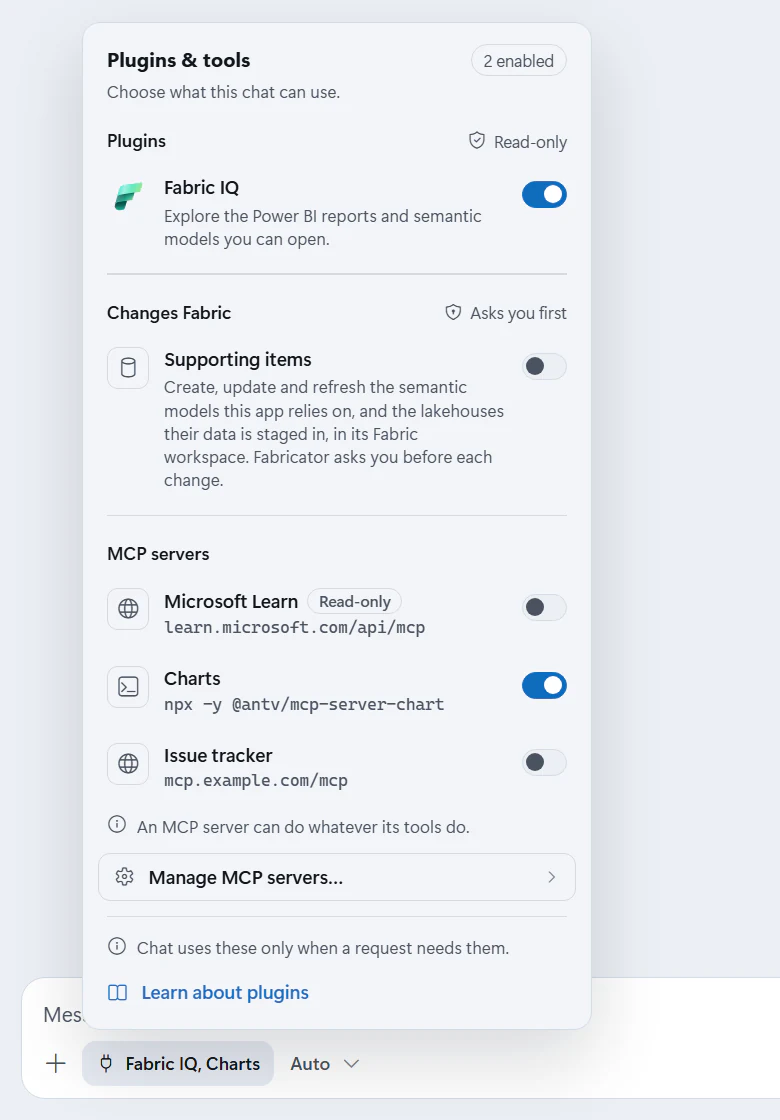
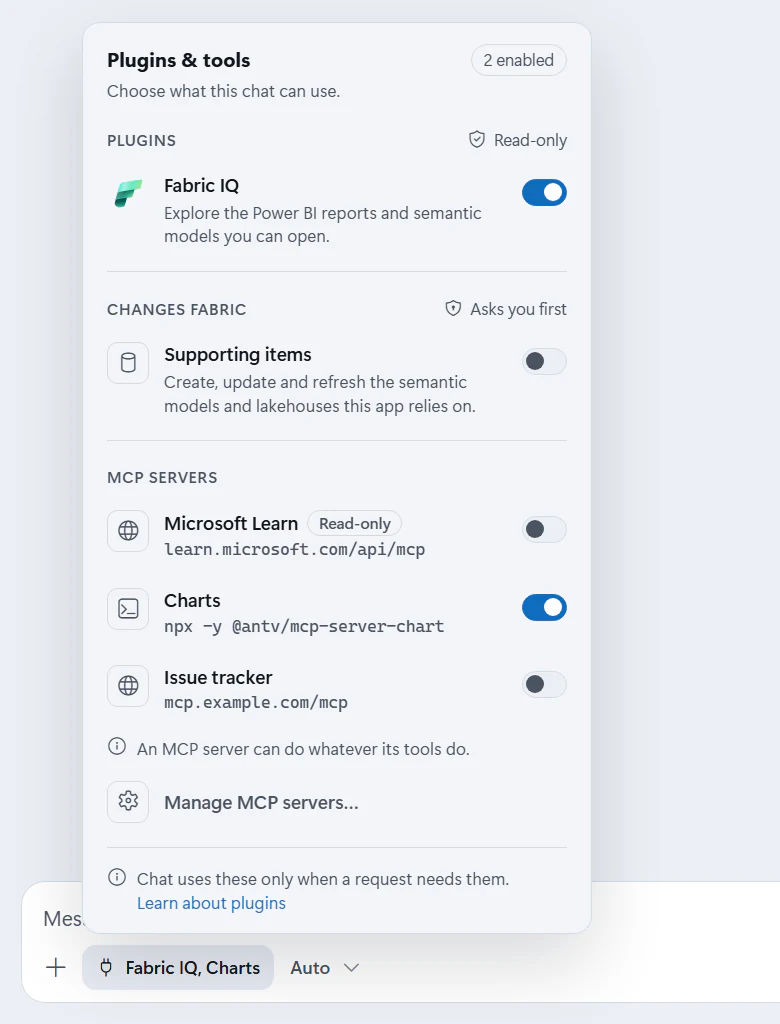
Tidy the chat's Plugins & tools panel
The panel's section headings are now small and dim, like the model
picker's, so the plugins' names lead. Supporting items' description is
two lines instead of five: it no longer says "Fabricator asks you
before each change", which its section's Asks you first already says.

Add an MCP server... and Manage MCP servers... are rows of the list,
lined up with the others, with a dashed + slot for adding the first
server, instead of a framed button wider than the rest. Learn about
plugins follows the note at the foot of the panel rather than taking a
row of its own.

The labels are unchanged. The plugins and mcp-plugins screenshots are
captured again, cropped for the shorter panel.

Copilot-Session: ccdcdfe1-410a-49bd-8093-f023c893ffa9

diff --git a/src/renderer/src/components/chat/ComposerMenus.tsx b/src/renderer/src/components/chat/ComposerMenus.tsx
@@ -525,17 +525,21 @@ export function PluginsMenu({
                     <button
                       type="button"
                       role="menuitem"
-                      className="mp-item pl-manage"
+                      className="mp-item pl-item pl-manage"
                       onClick={() => {
                         closeMenu(false)
                         onManageServers(servers.length === 0)
                       }}
                     >
-                      <Codicon name={servers.length ? 'settings-gear' : 'add'} />
+                      <span
+                        className={`pl-logo pl-logo--tile${servers.length ? '' : ' pl-logo--add'}`}
+                        aria-hidden="true"
+                      >
+                        <Codicon name={servers.length ? 'settings-gear' : 'add'} />
+                      </span>
                       <span className="mp-item-label">
                         {servers.length ? t('pluginsMenu.manage') : t('pluginsMenu.addServer')}
                       </span>
-                      <Codicon name="chevron-right" className="pl-manage-caret" />
                     </button>
                   )}
                 </>
@@ -544,22 +548,26 @@ export function PluginsMenu({
               <div className="mp-sep" role="separator" />
               <p className="pl-note">
                 <Codicon name="info" />
-                {t('pluginsMenu.note')}
+                <span>
+                  {t('pluginsMenu.note')}
+                  {onLearnMore && (
+                    <>
+                      {' '}
+                      <button
+                        type="button"
+                        role="menuitem"
+                        className="pl-learn"
+                        onClick={() => {
+                          closeMenu(false)
+                          onLearnMore()
+                        }}
+                      >
+                        {t('pluginsMenu.learn')}
+                      </button>
+                    </>
+                  )}
+                </span>
               </p>
-              {onLearnMore && (
-                <button
-                  type="button"
-                  role="menuitem"
-                  className="mp-item pl-learn"
-                  onClick={() => {
-                    closeMenu(false)
-                    onLearnMore()
-                  }}
-                >
-                  <Codicon name="book" />
-                  <span className="mp-item-label">{t('pluginsMenu.learn')}</span>
-                </button>
-              )}
             </div>
           </div>,
           document.body

diff --git a/src/renderer/src/components/chat/chat.css b/src/renderer/src/components/chat/chat.css
@@ -2866,13 +2866,16 @@ button.thinking-head:hover {
   padding: 8px 10px 4px;
 }
 
+/* Quieter than the plugins' names, like the model picker's headings. */
 .pl-section-title {
   display: inline-flex;
   align-items: center;
   gap: 6px;
-  color: var(--text);
-  font-size: 12px;
+  color: var(--text-dim);
+  font-size: 10.5px;
   font-weight: 600;
+  letter-spacing: 0.05em;
+  text-transform: uppercase;
 }
 
 .pl-section-note {
@@ -2933,6 +2936,11 @@ button.thinking-head:hover {
   font-size: 15px;
 }
 
+/* Adding the first MCP server: an empty slot in the list. */
+.pl-logo--add {
+  border-style: dashed;
+}
+
 .pl-badge {
   padding: 0 7px;
   color: var(--text-dim);
@@ -2968,35 +2976,40 @@ button.thinking-head:hover {
   font-size: 13px;
 }
 
-/* Manage MCP servers: a row of its own, framed like a button. */
-.mp-item.pl-manage {
-  width: auto;
-  margin: 4px 4px 2px;
-  border: 1px solid var(--pl-line);
-}
-
-.pl-manage .mp-item-label {
-  flex: 1;
-}
-
-.pl-manage .codicon[class*='codicon-'] {
+/* Add or manage MCP servers: a row of the list, quieter than the switches. */
+.pl-item.pl-manage {
+  align-items: center;
   color: var(--text-dim);
-  font-size: 14px;
 }
 
-.pl-manage .codicon[class*='codicon-'].pl-manage-caret {
-  color: var(--text-faint);
-  font-size: 12px;
+.pl-item.pl-manage:hover:not(:disabled),
+.pl-item.pl-manage:focus-visible {
+  color: var(--text);
 }
 
-.mp-item.pl-learn,
-.mp-item.pl-learn:hover:not(:disabled),
-.mp-item.pl-learn:focus-visible {
+.pl-item.pl-manage .mp-item-label {
+  font-weight: 500;
+}
+
+/* The footer's note, with Learn about plugins at its end. */
+.pl-learn {
+  padding: 0;
+  font: inherit;
   color: var(--accent);
+  background: none;
+  border: 0;
+  border-radius: 3px;
+  cursor: pointer;
 }
 
-.pl-learn .codicon[class*='codicon-'] {
-  font-size: 14px;
+.pl-learn:hover {
+  text-decoration: underline;
+}
+
+.pl-learn:focus-visible {
+  outline: 2px solid var(--accent-ring);
+  outline-offset: 1px;
+  text-decoration: underline;
 }
 
 /* Fabric data: chips waiting in the composer, and on the message that sent them.

diff --git a/scripts/docs-screenshots/README.md b/scripts/docs-screenshots/README.md
@@ -201,8 +201,8 @@ of them. The current crops (no crop means the whole 1440×900 window):
 | `model-picker` | harness | `0,355,720,545` |
 | `model-providers` | harness | `390,200,660,590` |
 | `add-menu` | harness | `0,630,520,270` |
-| `plugins` | harness | `0,265,520,635` |
-| `mcp-plugins` | harness | `0,153,520,747` |
+| `plugins` | harness | `0,329,520,571` |
+| `mcp-plugins` | harness | `0,217,520,683` |
 | `mcp-servers` | harness | `390,114,660,672` |
 | `connect-data` | harness | `300,140,840,620` |
 | `data-chips` | harness | `0,740,720,160` |
